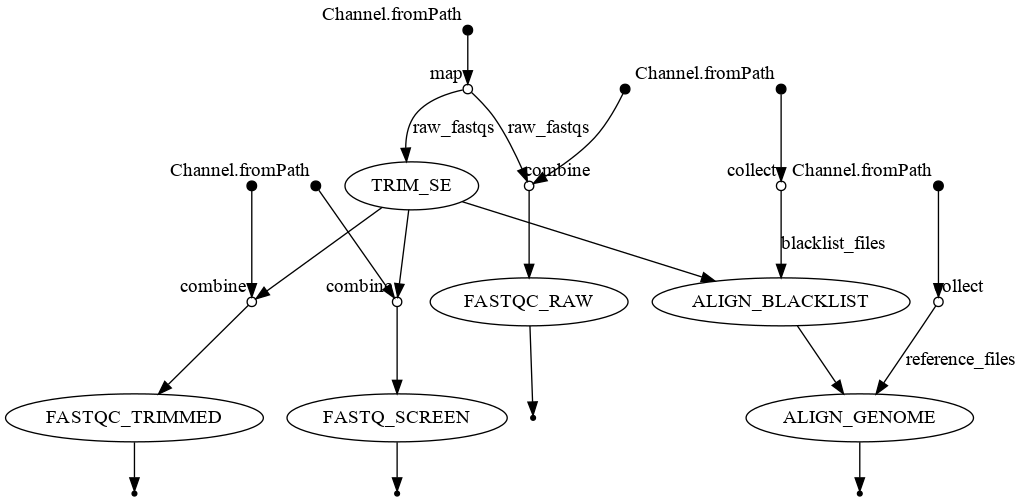
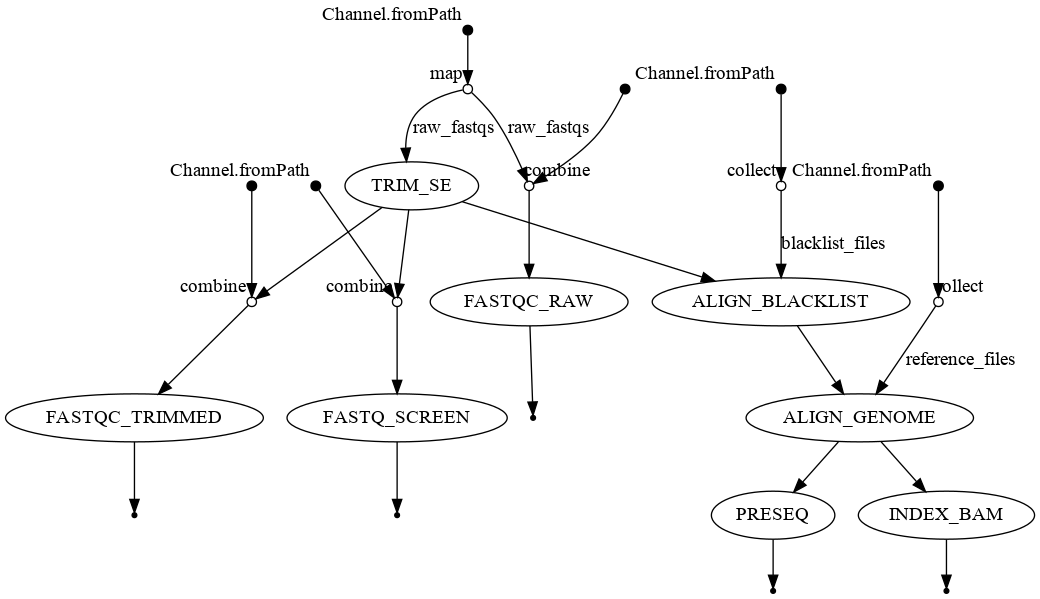
feat: run preseq & index bam
Adapts code from https://github.com/CCBR/Dockers/tree/47515a286aa06d0b38d4c84bc68442ea35b8944d/chipseq/ccbr_preseq

Waiting on CCBR/Dockers#4 before I can add the Docker path and close #9

diff --git a/bin/parse_preseq_log.py b/bin/parse_preseq_log.py
@@ -1,0 +1,33 @@
+#!/usr/bin/env python3
+
+"""
+Parse the log file from preseq
+
+Usage:
+    python3 preseq_log.py <path/to/preseq.log>
+
+adapted from https://github.com/CCBR/Dockers/blob/4f245f4e418dd1908b7d91d487e45470d07096df/chipseq/ccbr_preseq/ccbr_nrf.py#L1-L17
+"""
+
+
+def main(log_filename):
+    with open(log_filename, "r") as infile:
+        for line in infile:
+            if line.startswith("TOTAL READS"):
+                tot_reads = float(line.strip().split("= ")[1])
+            elif line.startswith("DISTINCT READS"):
+                distinct_reads = float(line.strip().split("= ")[1])
+            elif line.startswith("1\t"):
+                one_pair = float(line.strip().split()[1])
+            elif line.startswith("2\t"):
+                two_pair = float(line.strip().split()[1])
+    nrf = distinct_reads / tot_reads
+    pbc1 = one_pair / distinct_reads
+    pbc2 = one_pair / two_pair
+    print(f"NRF: {nrf}\nPBC1: {pbc1}\nPBC2: {pbc2}")
+
+
+if __name__ == "__main__":
+    import sys
+
+    main(sys.argv[1])
